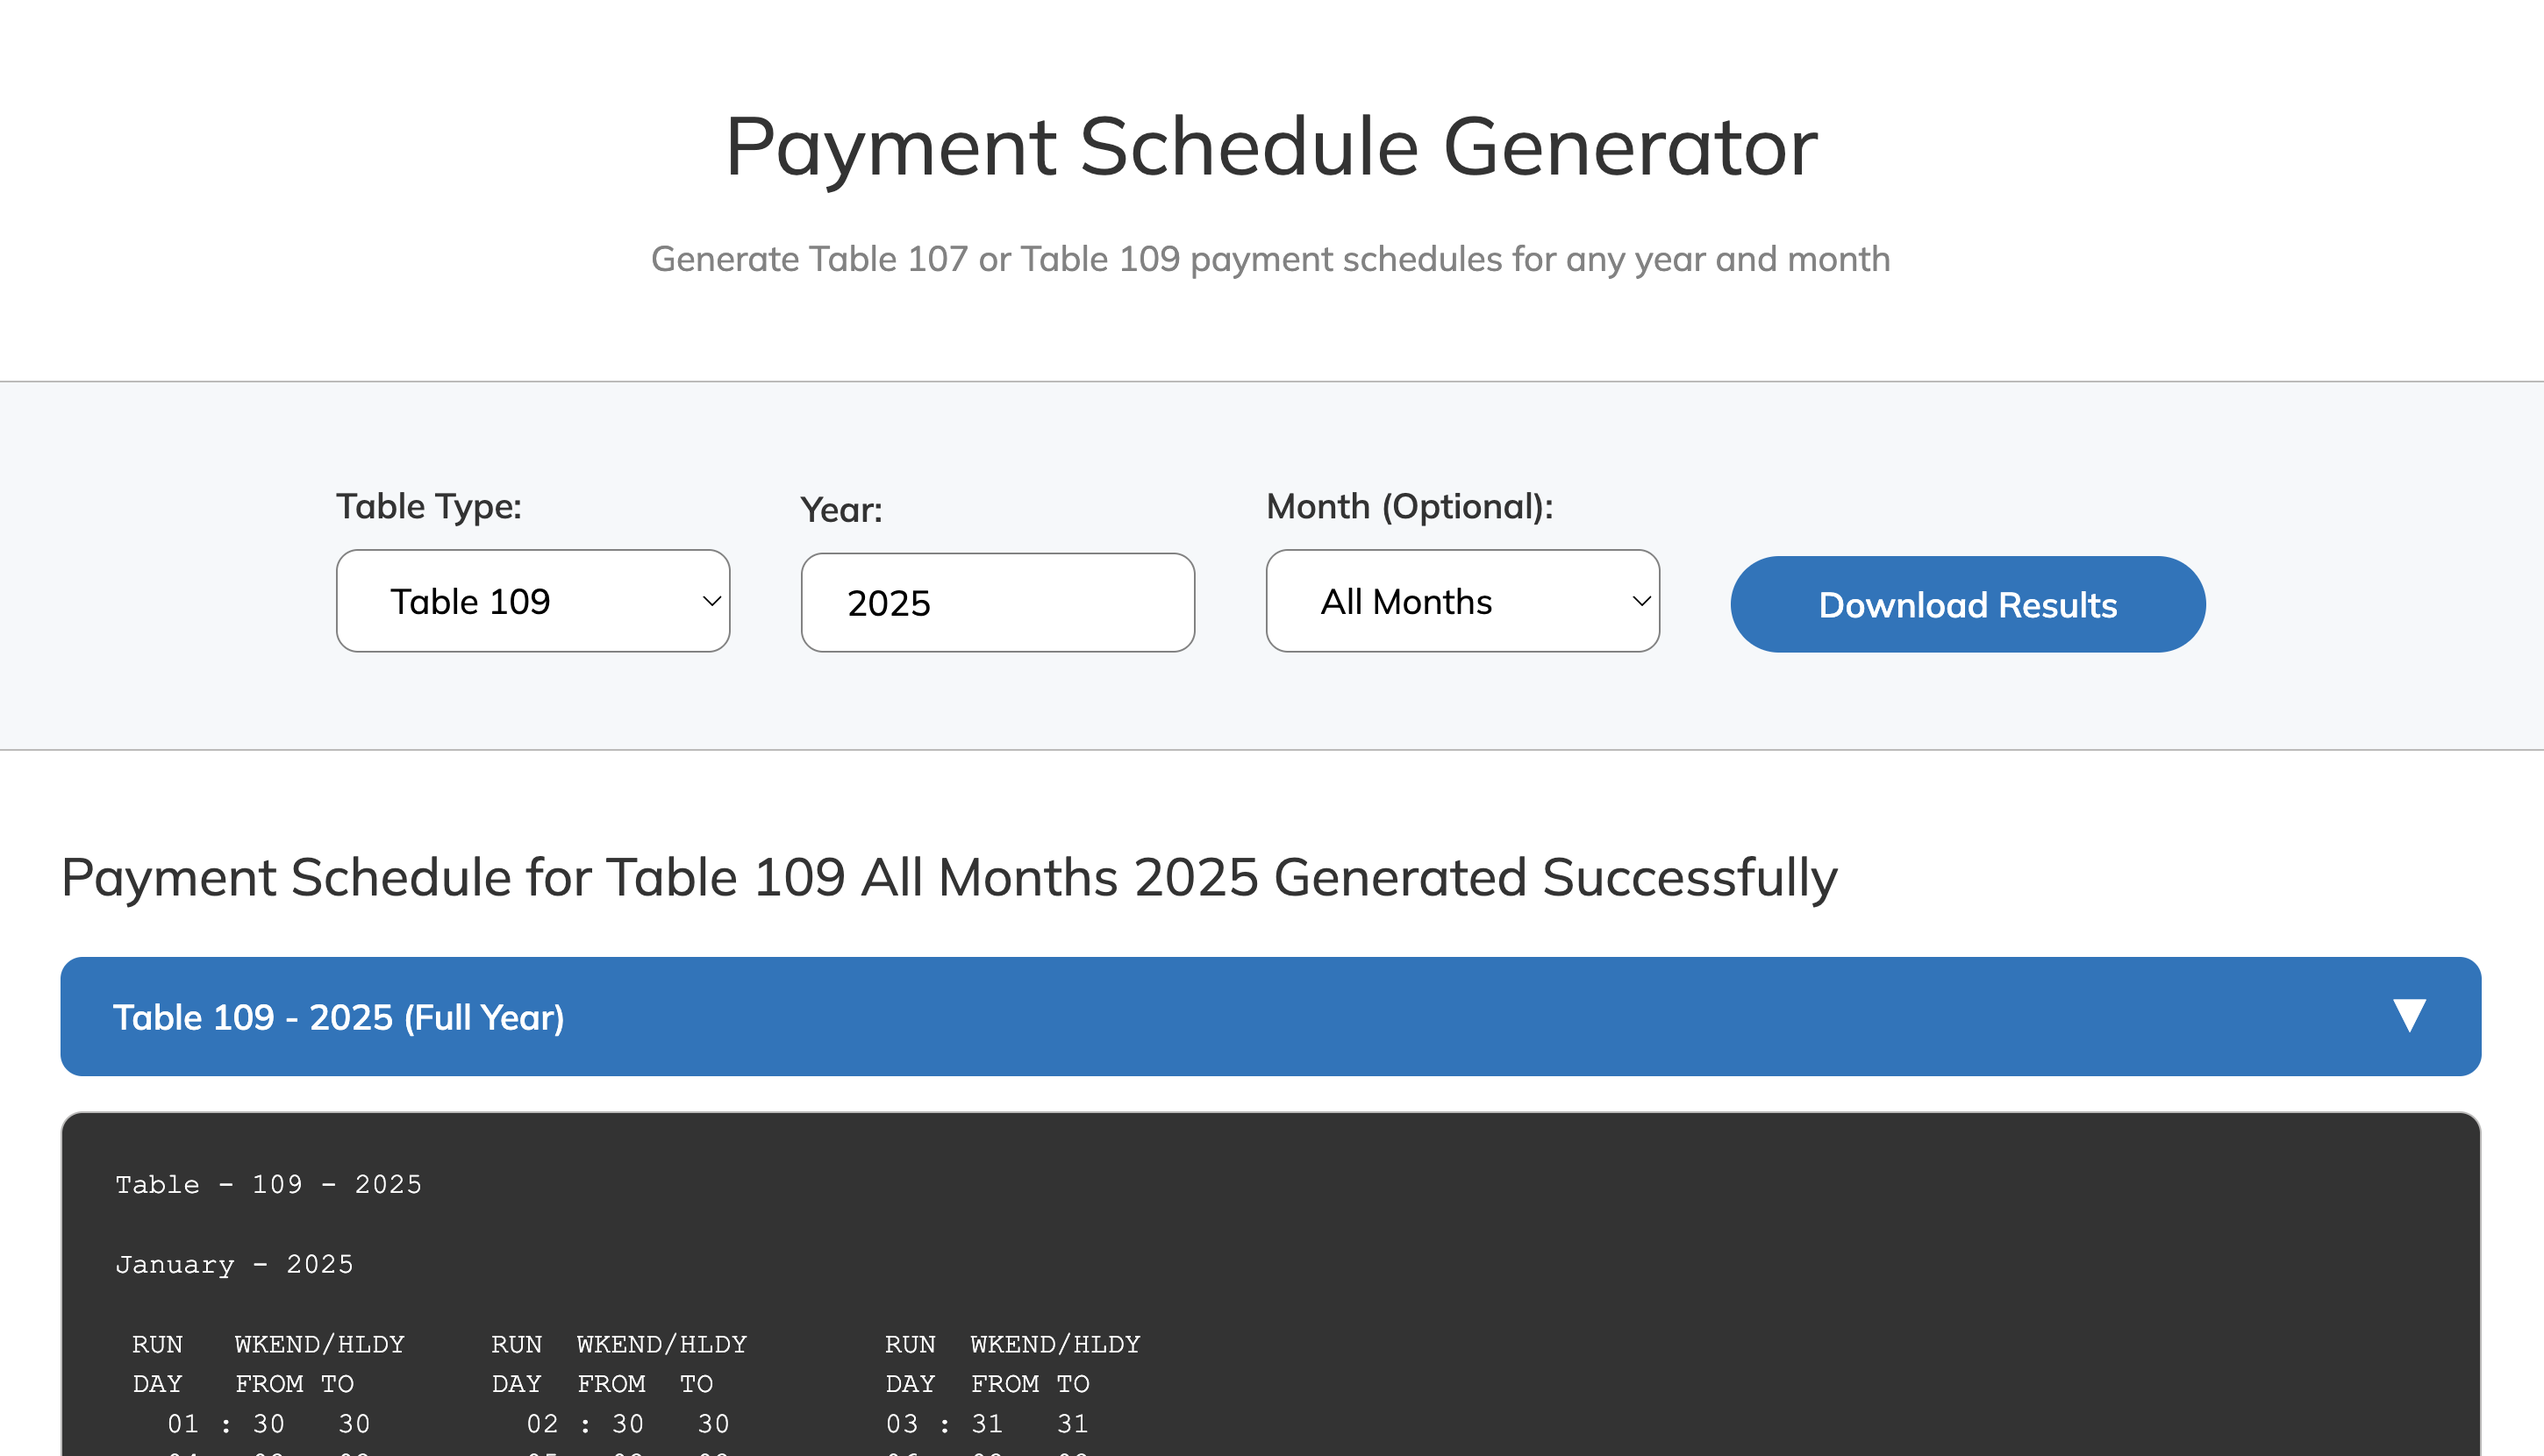
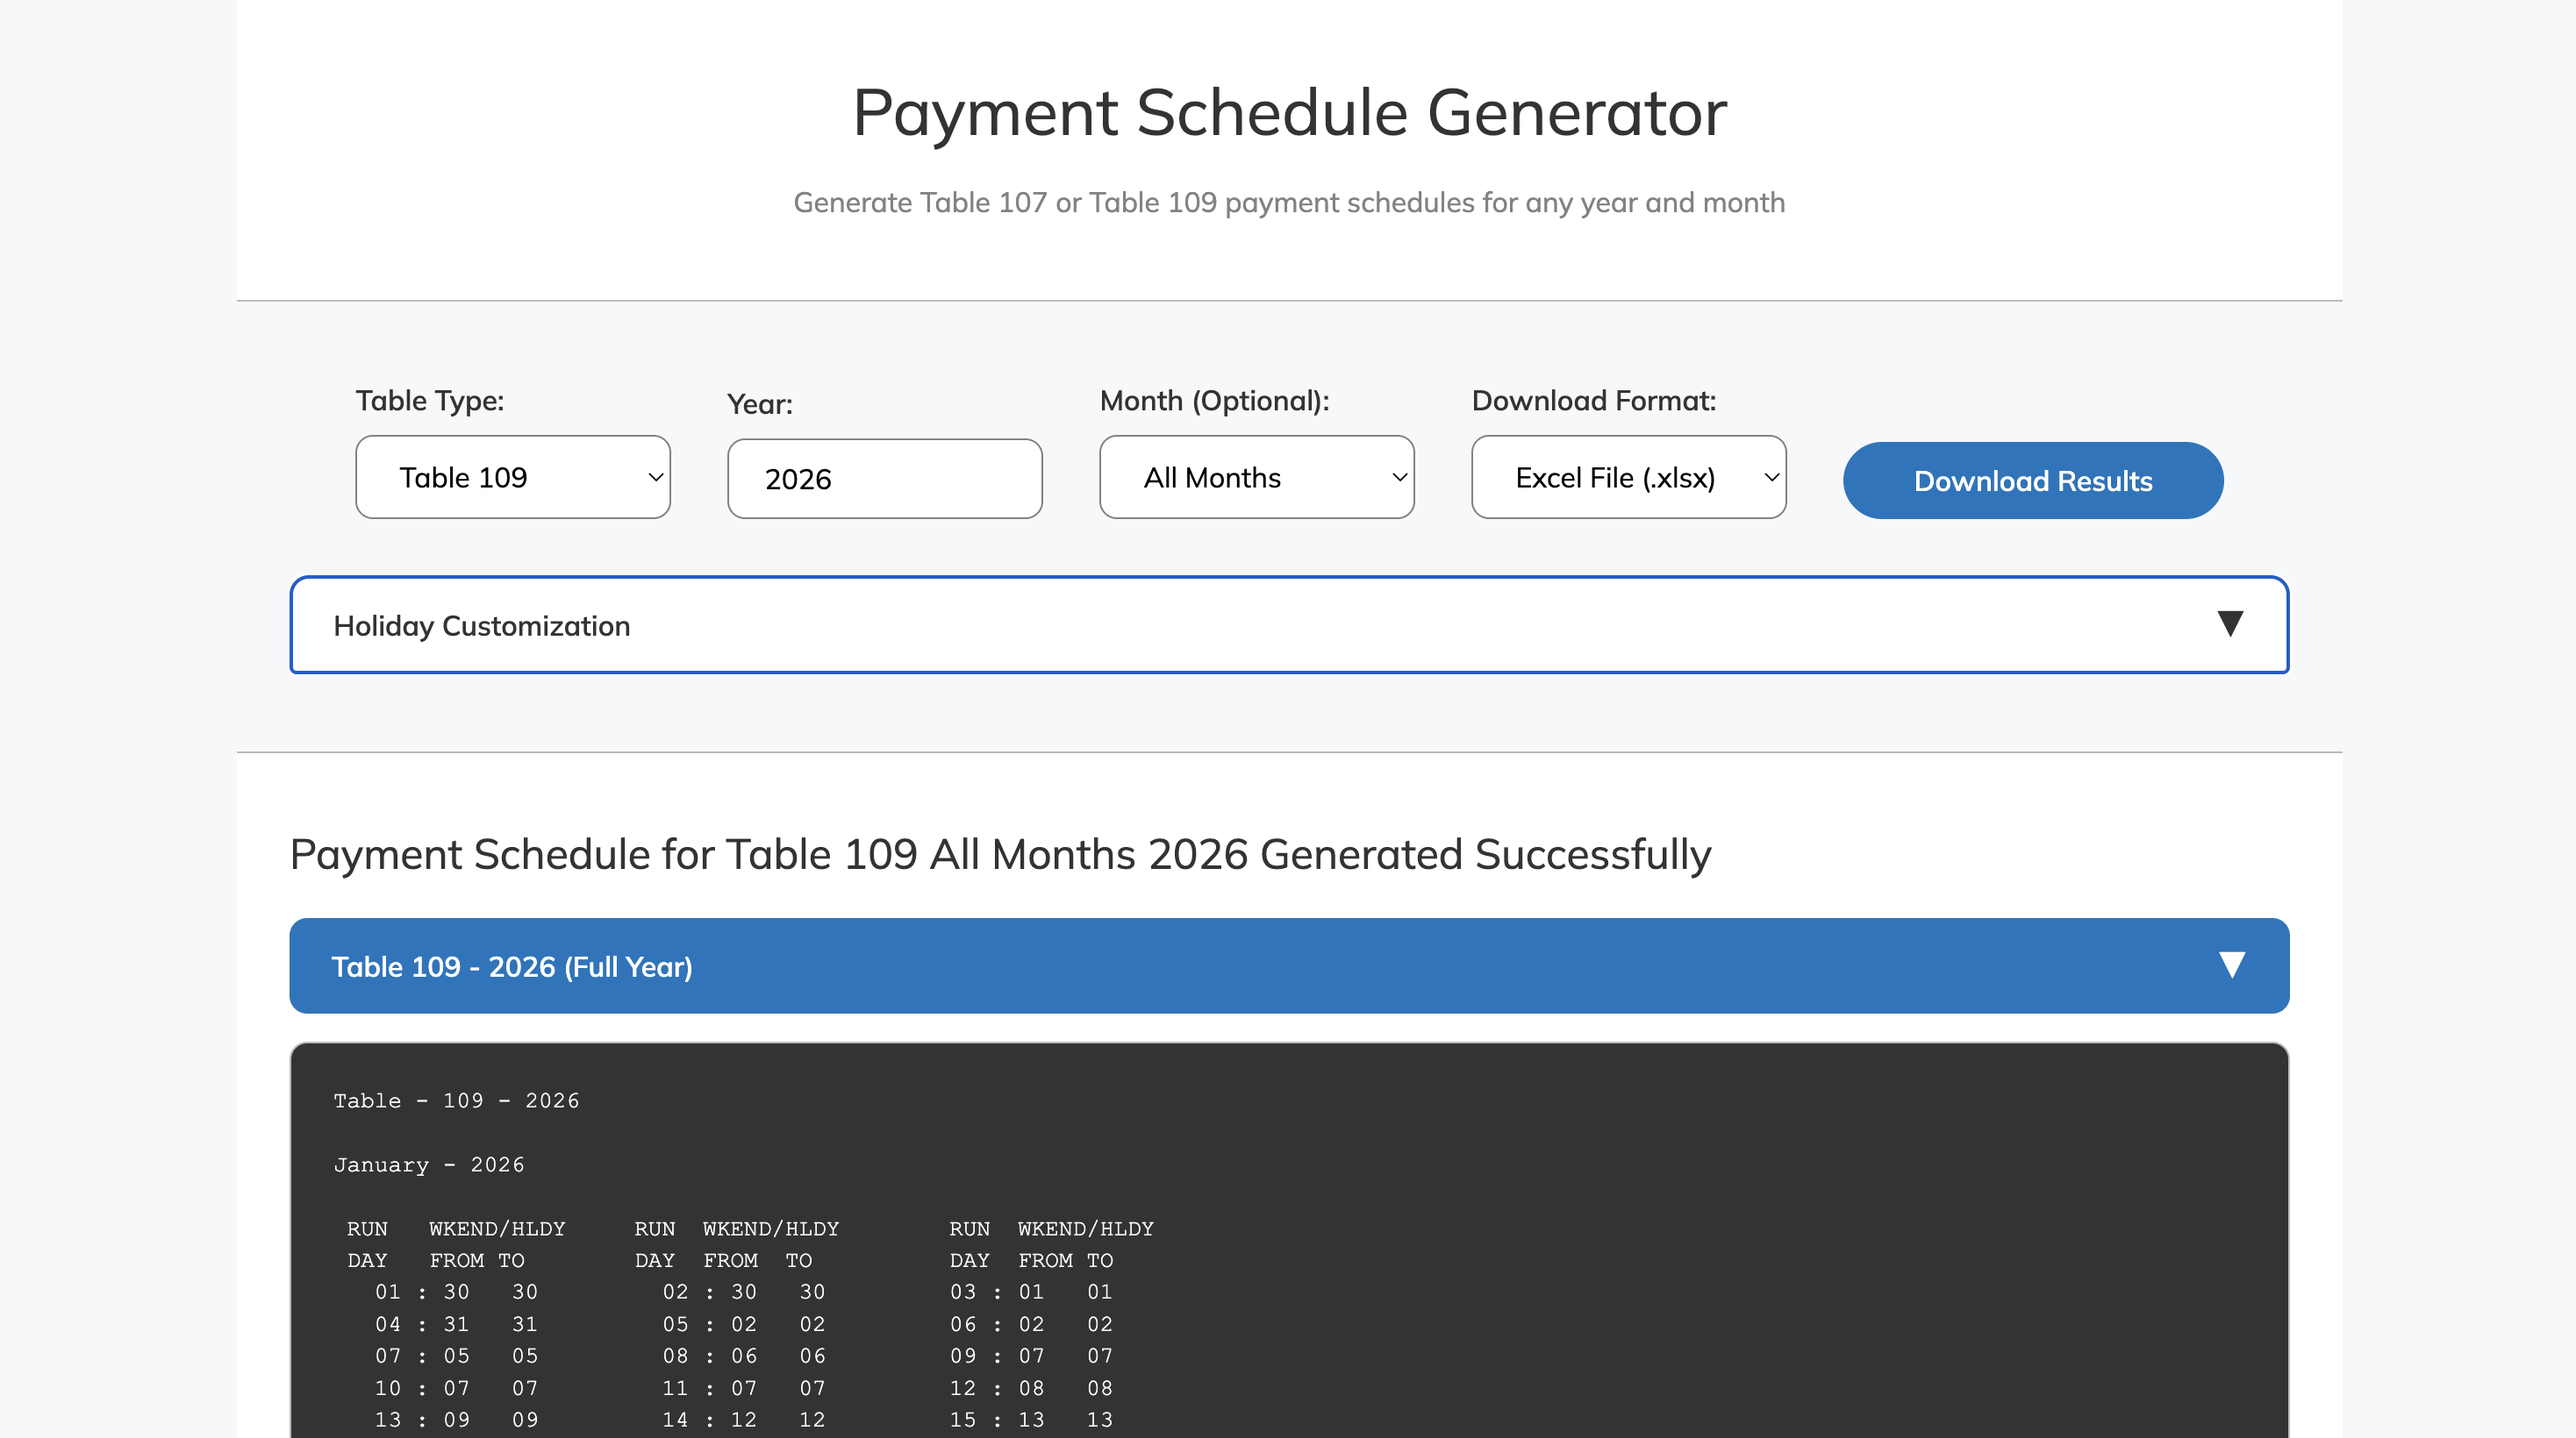
updated README

diff --git a/README.md b/README.md
@@ -1,113 +1,57 @@
 # Payment Schedule Generator
 
-An advanced payment schedule generation system supporting both **Table 107** and **Table 109** with machine learning-optimized algorithms for benefit payment processing.
-
-## 🌐 Web Interface (Recommended for Business Users)
-
-**`payment_schedule_generator.html`** - A professional, self-contained web application perfect for business users.
+Generate **Table 107** and **Table 109** payment schedules with 95%+ accuracy using machine learning-optimized algorithms.
 
 ![Web Interface Screenshot](img/website_screenshot.png)
 
-### Features:
-✅ **Zero Installation** - Works on any computer with a web browser  
-✅ **Professional Design** - Government-style interface with clean UX  
-✅ **Auto-Generation** - Results update instantly as you change options  
-✅ **Smart Preview** - Shows table preview with expand/collapse functionality  
-✅ **Download Results** - Save tables as `.txt` files  
-✅ **Cross-Platform** - Works on Windows, Mac, Linux  
+## Quick Start
 
-### How to Use:
-1. **Double-click** `payment_schedule_generator.html` 
-2. **Select** Table Type (107 or 109), Year, and optional Month
-3. **View** results automatically generated
-4. **Click** the blue header to expand/collapse full table
-5. **Download** results as text files for sharing
+**For Business Users:** Double-click `payment_schedule_generator.html` - no installation needed!
 
-### Distribution:
-Simply email the HTML file to business users - no installation or IT support needed!
+**For Developers:** Use the CLI tool for automation and integration.
 
-## 🖥 Command Line Interface (For Developers)
+## Web Interface
 
-Perfect for automation, integration, and development workflows.
+Simply open `payment_schedule_generator.html` in any web browser:
 
-Advanced CLI tool with the same algorithms powering the web interface.
+1. Select Table Type (107 or 109), Year, and Month
+2. Customizable Holidays - Add/remove holidays for accurate calculations
+3. Choose Format - Download as TXT or Excel files
+4. Results generate automatically
 
-### Features:
-✅ **Dual Table Support**: Table 107 and Table 109 generation  
-✅ **High Accuracy**: 95%+ within 2-day target for both table types  
-✅ **Smart Algorithms**: Dedicated optimized logic for each table  
-✅ **Comprehensive Testing**: 8,000+ test cases across 12+ years of data  
-✅ **Production Ready**: Robust error handling and validation  
+![Holiday Customization Widget](img/holidays_widget.png)
 
-## CLI Quick Start
+Perfect for sharing - just email the HTML file to users.
 
-1. **Setup Environment:**
+## CLI Usage
+
 ```bash
+# Setup
 python3 -m venv venv
 source venv/bin/activate
 pip install -r requirements.txt
-```
 
-2. **Generate Tables:**
-```bash
-# Table 109 (Weekend/Holiday Table in Arrears)
+# Generate schedules
 python payment_schedule_generator.py --table 109 --year 2024
+python payment_schedule_generator.py --table 107 --year 2024 --month 6
 
-# Table 107 (7-day advance table)
-python payment_schedule_generator.py --table 107 --year 2024
-
-# Specific month only
-python payment_schedule_generator.py --table 109 --year 2024 --month 6
-```
-
-3. **Test Algorithm Performance:**
-```bash
+# Test performance
 python test_algorithm.py
 ```
 
-## Algorithm Performance
+## Performance
 
 | Metric | Table 107 | Table 109 |
 |--------|-----------|-----------|
-| **Perfect Matches** | 76.6% | 77.0% |
 | **Within Target (≤2 days)** | 95.8% | 96.1% |
-| **Beyond Target (3+ days)** | 4.2% | 3.9% |
-| **Large Errors (>10 days)** | 65 cases | 47 cases |
-| **Test Cases** | 4,018 | 4,135 |
+| **Perfect Matches** | 76.6% | 77.0% |
 
-🏆 **Both algorithms exceed 95% target accuracy**
-
-## 🎯 Which Version to Use?
-
-| Use Case | Recommended Version | Why |
-|----------|-------------------|-----|
-| **Business Users** | 🌐 **HTML Web Interface** | No installation, easy sharing, professional UI |
-| **End Users** | 🌐 **HTML Web Interface** | Just double-click and use - works everywhere |
-| **Developers** | 🖥 **CLI Tool** | Integration, automation, scripting, testing |
-| **System Integration** | 🖥 **CLI Tool** | Batch processing, automated workflows |
-| **One-off Calculations** | 🌐 **HTML Web Interface** | Fastest and easiest |
-
-## Technical Architecture
-
-- **Table109Generator**: Sophisticated algorithm with cross-month boundary handling, Christmas period optimization, and Tuesday bias correction
-- **Table107Generator**: Dedicated module with Table 109 foundation plus 7-day advancement logic and December cross-month fixes
-- **PaymentScheduleGenerator**: Main dispatcher supporting both table types
+🏆 Both algorithms exceed 95% target accuracy
 
 ## Files
 
-### Main Applications
-- **`payment_schedule_generator.html`** - 🌐 **Web interface** - Professional UI for business users (recommended)
-- **`payment_schedule_generator.py`** - 🖥 **CLI tool** - Core algorithms for developers and automation
-
-### Development & Testing
-- `test_algorithm.py` - Comprehensive testing framework with 8,000+ test cases
-- `algorithm_performance_report.md` - Detailed technical analysis and performance metrics
-- `table_examples/` - Historical ground truth data (2014-2026)
-
-### Documentation
-- `README.md` - This documentation
-- `requirements.txt` - Python dependencies for CLI version
-
-## Documentation
-
-See `algorithm_performance_report.md` for detailed technical analysis, algorithm flow diagrams, and performance insights.
+- **`payment_schedule_generator.html`** - Web interface (recommended)
+- **`payment_schedule_generator.py`** - CLI tool for developers
+- `test_algorithm.py` - Testing framework
+- `table_examples/` - Historical data (2014-2026)
+- `algorithm_performance_report.md` - Detailed technical analysis
